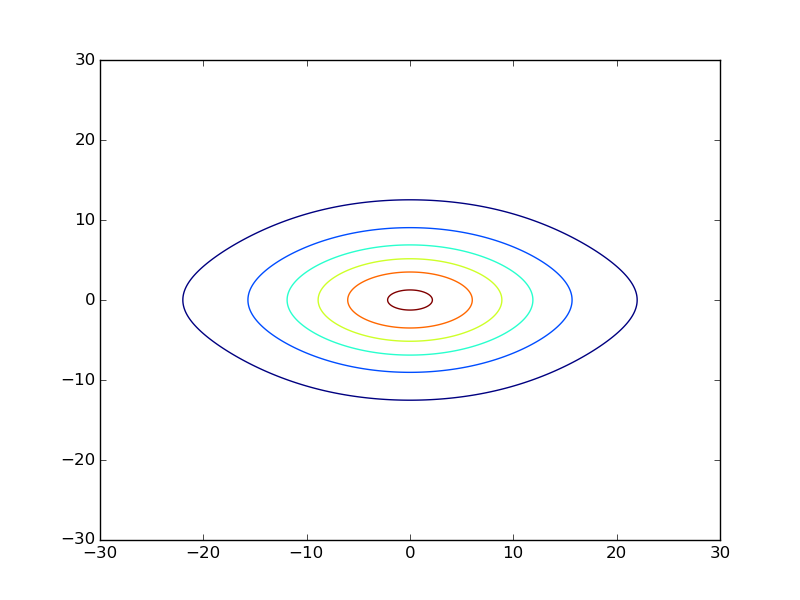
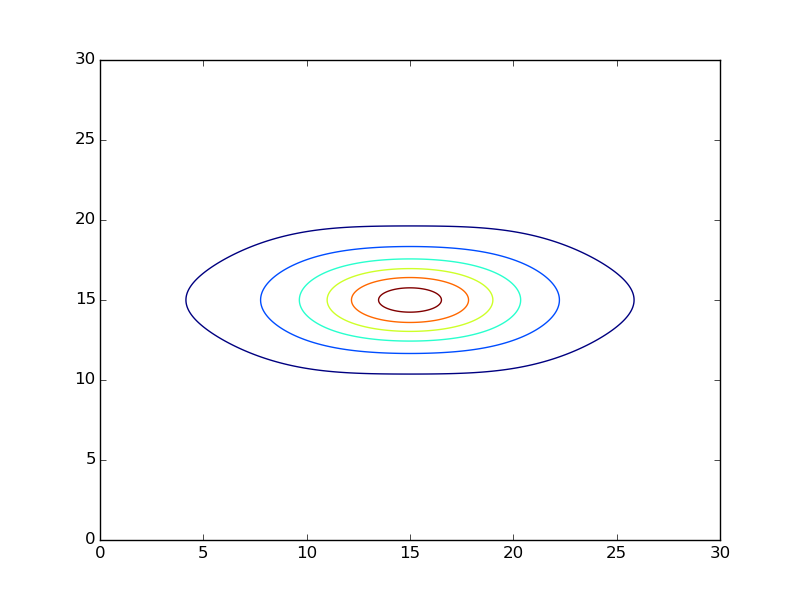
Added the force computation and plotting to the tutorial. Updated the examples accordingly

diff --git a/mnn/examples/simple_model.py b/mnn/examples/simple_model.py
@@ -21,33 +21,32 @@ plt.show()
 
 # Plotting density meshgrid
 x, y, z, v = model.generate_dataset_meshgrid((0.0, 0.0, -10.0), (30.0, 0.0, 10.0), (300, 1, 200))
-fig = plt.imshow(v[:,0].T)
+fig = plt.imshow(v[:, 0].T)
 plt.show()
 
 # Contour plot
-x = x[:,0]
-z = z[:,0]
-plt.contour(x, z, v[:,0])
+x = np.linspace(0.0, 30.0, 300)
+z = np.linspace(-10.0, 10.0, 200)
+plt.contour(x, z, v[:, 0].T)
 plt.show()
 
 # Plotting force meshgrid
+plt.close('all')
 x, y, z, f = model.generate_dataset_meshgrid((-30.0, -30.0, 0.0), (30.0, 30.0, 0.0), (30, 30, 1), 'force')
 x = x[:, :, 0].reshape(-1)
 y = y[:, :, 0].reshape(-1)
 fx = f[0, :, :, 0].reshape(-1)
 fy = f[1, :, :, 0].reshape(-1)
 
-plt.close('all')
 extent = [x.min(), x.max(), y.min(), y.max()]
 plt.figure(figsize=(10, 10))
 gs = gridspec.GridSpec(2, 2)
 ax1 = plt.subplot(gs[1, 0])
-pl1 = ax1.imshow(f[0, :, :, 0].T, extent=extent, aspect='auto')
+pl1 = ax1.imshow(f[1, :, :, 0].T, extent=extent, aspect='auto')
 ax2 = plt.subplot(gs[0, 1])
-pl2 = ax2.imshow(f[1, :, :, 0].T, extent=extent, aspect='auto')
+pl2 = ax2.imshow(f[0, :, :, 0].T, extent=extent, aspect='auto')
 ax3 = plt.subplot(gs[1, 1])
-step = 1
-pl3 = ax3.quiver(x[::step].T, y[::step].T, fx[::step].T, fy[::step].T, units='width', scale=0.045)
+pl3 = ax3.quiver(x.T, y.T, fx.T, fy.T, units='width', scale=0.045)
 plt.show()
 
     

diff --git a/mnn/examples/multiple_discs.py b/mnn/examples/multiple_discs.py
@@ -8,7 +8,7 @@ from mnn.model import MNnModel
 model = MNnModel()
 
 # Putting the discs in a list for simplicity
-discs = (('z', 10.0, 10.0, 100.0), ('y', -7.0, 20.0, 10.0))
+discs = (('z', 20.0, 10.0, 100.0), ('y', -12.0, 20.0, 10.0))
 model.add_discs(discs)
 
 # Generating the meshgrid and plotting
@@ -17,8 +17,8 @@ plt.imshow(v[0].T)
 plt.show()
 
 # Contour plot
-y = np.linspace(-30.0, 30.0, 600)
-z = np.linspace(-30.0, 30.0, 600)
+y = np.linspace(0.0, 30.0, 600)
+z = np.linspace(0.0, 30.0, 600)
 plt.contour(y, z, v[0].T)
 plt.show()
 
@@ -34,10 +34,9 @@ extent = [y.min(), y.max(), z.min(), z.max()]
 plt.figure(figsize=(10, 10))
 gs = gridspec.GridSpec(2, 2)
 ax1 = plt.subplot(gs[1, 0])
-pl1 = ax1.imshow(f[1, 0].T, extent=extent, aspect='auto')
+pl1 = ax1.imshow(f[2, 0].T, extent=extent, aspect='auto')
 ax2 = plt.subplot(gs[0, 1])
-pl2 = ax2.imshow(f[2, 0].T, extent=extent, aspect='auto')
+pl2 = ax2.imshow(f[1, 0].T, extent=extent, aspect='auto')
 ax3 = plt.subplot(gs[1, 1])
-step = 1
-pl3 = ax3.quiver(y[::step].T, z[::step].T, fy[::step].T, fz[::step].T, units='width')
+pl3 = ax3.quiver(y.T, z.T, fy.T, fz.T, units='width')
 plt.show()

diff --git a/docs/tutorial.rst b/docs/tutorial.rst
@@ -19,13 +19,16 @@ Now we can add a Miyamoto-Nagai disc to the model :
 
 >>> model.add_disc('z', 1.0, 10.0, 100.0)
 
-The model is now ready to use. We can, for instance, retrieve the density and the potential of the model at cartesian coordinates ``(1.0, 2.0, -0.5)`` :
+The model is now ready to use. We can, for instance, retrieve the density, the potential or the force of the model at cartesian coordinates ``(1.0, 2.0, -0.5)`` :
     
 >>> model.evaluate_potential(1.0, 2.0, -0.5)
 -0.038273018555213874
 
 >>> model.evaluate_density(1.0, 2.0, -0.5)
 0.016676480491325717
+
+>>> model.evaluate_force(1.0, 2.0, -0.5)
+[-0.00030309 -0.00060619  0.00016668]
 
 These methods can also be used with vectors. For instance, to evaluate the density along the x-axis, we can do :
 
@@ -40,15 +43,15 @@ You should obtain the following result :
 
 .. image:: images/tut_density1.png
   
-We can also use the :func:`~mnn.model.MNnModel.evaluate_density_vec` method of :class:`~mnn.model.MNnModel` to group the ``x``, ``y``, and ``z`` values in a single numpy array. For instance to evaluate potential over two points ``(1.0, 2.0, -0.5)`` and ``(-5.0, 0.0, 0.0)`` we can use :
+We can also use the :func:`~mnn.model.MNnModel.evaluate_density_vec` method of :class:`~mnn.model.MNnModel` (and the ocrresponding methods for potential and force) to group the ``x``, ``y``, and ``z`` values in a single numpy array. For instance to evaluate potential over two points ``(1.0, 2.0, -0.5)`` and ``(-5.0, 0.0, 0.0)`` we can use :
 
 >>> p = np.array(((2.0, 1.0, -0.5), (-5.0, 0.0, 0.0)))
 >>> model.evaluate_potential_vec(p)
 array([-0.03827302, -0.03559385])
 
-Once the model is completed, you can generate a meshgrid of data. For instance, let's generate and plot a slice of the xz plane at ``y=0``, and for x in [0, 30] and z in [-10, 10]. To do this, we need to define a mesh size. We will make cells 0.1 units wide.
+Once the model is completed, you can generate a meshgrid of data. For instance, let's generate and plot a slice of the xz plane at ``y=0``, and for x in [0, 30] and z in [-10, 10]. To do this, we need to define a mesh size. We will make 300 cells along the x axis, 1 along the y axis and 200 along the z axis.
 
->>> x, y, z, v = model.generate_dataset_meshgrid((0.0, 0.0, -10.0), (30.0, 0.0, 10.0), (0.1, 0.1, 0.1))
+>>> x, y, z, v = model.generate_dataset_meshgrid((0.0, 0.0, -10.0), (30.0, 0.0, 10.0), (300, 1, 200))
 >>> plt.imshow(v[0].T)
 >>> plt.show()
 
@@ -60,13 +63,15 @@ Should give you :
 	  This is mainly due for the tutorial briefness.
 
 .. note:: By default, the :func:`~mnn.model.MNnModel.generate_dataset_meshgrid` method generates the density.
-	  But you can ask it to generate the potential by using the keyword ``quantity='potential'``
+	  But you can ask it to generate the potential by using the keyword ``quantity='potential'`` or the force ``quantity='force'``
 		    
 	  
-Finally, we can plot contour lines at the cost of a little more effort :
+We can plot contour lines at the cost of a little more effort :
 
->>> x = np.arange(0.0, 30.1, 0.1)
->>> z = np.arange(-10.0, 10.1, 0.1)
+>>> # Selecting only the y=0 plane :
+>>> x = np.linspace(0.0, 30.0, 300)
+>>> z = np.linspace(-10.0, 10.0, 200)
+>>> # And plotting the contour :
 >>> plt.contour(x, z, v[0].T)
 >>> plt.show()
 
@@ -74,6 +79,36 @@ These commands should give the following contour plot :
 
 .. image:: images/tut_density_contour1.png
 
+And with even more effort, we can plot a quiver plot of the force applied on the xy plane and the corresponding forces along each axis :
+
+>>> # Generating the force mesh grid. The final image will be 30x30 to avoid having too many arrows on the quiver plot
+>>> x, y, z, f = model.generate_dataset_meshgrid((-30.0, -30.0, 0.0), (30.0, 30.0, 0.0), (30, 30, 1), 'force')
+>>> 
+>>> # Selecting the z=0 plane and flattening the array
+>>> x = x[:, :, 0].reshape(-1)
+>>> y = y[:, :, 0].reshape(-1)
+>>> 
+>>> # Same thing but keeping the x and y components of the force
+>>> fx = f[0, :, :, 0].reshape(-1)
+>>> fy = f[1, :, :, 0].reshape(-1)
+>>> 
+>>> # Drawing the plot
+>>> extent = [x.min(), x.max(), y.min(), y.max()]
+>>> plt.figure(figsize=(10, 10))
+>>> gs = gridspec.GridSpec(2, 2)
+>>> ax1 = plt.subplot(gs[1, 0])
+>>> pl1 = ax1.imshow(f[1, :, :, 0].T, extent=extent, aspect='auto')
+>>> ax2 = plt.subplot(gs[0, 1])
+>>> pl2 = ax2.imshow(f[0, :, :, 0].T, extent=extent, aspect='auto')
+>>> ax3 = plt.subplot(gs[1, 1])
+>>> pl3 = ax3.quiver(x.T, y.T, fx.T, fy.T, units='width', scale=0.045)
+>>> plt.show()
+
+The plot displayed should look like :
+
+.. image:: images/tut_force1.png
+
+The quiver plot represents the x and y components of the force on the xy plane. The left plot shows only the y component of the force while the top plot shows the x component of the force. 
 
 Multiple discs and negative scales
 ----------------------------------
@@ -81,14 +116,14 @@ Multiple discs and negative scales
 The strength of ``MNn`` is to provide a model that sums multiple Miyamoto-Nagai discs, and that some of these models can have a negative disc scale (``a``). Let's create such a model with two discs. for this we can use the previous method :func:`~mnn.model.MNnModel.add_disc` or use a the wrapper :func:`~mnn.model.MNnModel.add_discs`. This wrapper takes a list of discs as we would create them with :func:`~mnn.model.MNnModel.add_disc`.
 
 >>> model = MNnModel()
->>> discs = (('z', 10.0, 10.0, 100.0), ('y', -7.0, 20.0, 10.0))
+>>> discs = (('z', 20.0, 10.0, 100.0), ('y', -12.0, 20.0, 10.0))
 >>> model.add_discs(discs)
 
 .. note:: The discs can have ``a<0`` as long as ``a+b>=0``. The other constraints on the model are : ``b>=0`` and ``M>=0``.
 
 This new model can be used as previously, for instance plotting the density on the ``x=0`` plane :
 
->>> x, y, z, v = model.generate_dataset_meshgrid((0.0, -20.0, -20.0), (0.0, 20.0, 20.0), (0.1, 0.1, 0.1))
+>>> x, y, z, v = model.generate_dataset_meshgrid((0.0, -20.0, -20.0), (0.0, 30.0, 30.0), (1, 600, 600))
 >>> plt.imshow(v[:, 0].T)
 >>> plt.show()
 
@@ -98,8 +133,9 @@ Will give you :
 
 And :
 
->>> y = np.arange(-30.0, 30.1, 0.1)
->>> z = np.arange(-30.0, 30.1, 0.1)
+>>> # Selecting the x=0 plane and flattening
+>>> y = np.linspace(0.0, 30.0, 600)
+>>> z = np.linspace(0.0, 30.0, 600)
 >>> plt.contour(y, z, v[:, 0].T)
 >>> plt.show()
 
@@ -107,6 +143,28 @@ Will yield :
 
 .. image:: images/tut_density_contour2.png
 
+Finally, doing the same as before and plotting the force on yz plane :
+
+>>> x, y, z, f = model.generate_dataset_meshgrid((0.0, -30.0, -30.0), (0.0, 30.0, 30.0), (1, 30, 30), 'force')
+>>> y = y[0].reshape(-1)
+>>> z = z[0].reshape(-1)
+>>> fy = f[1, 0].reshape(-1)
+>>> fz = f[2, 0].reshape(-1)
+>>> 
+>>> extent = [y.min(), y.max(), z.min(), z.max()]
+>>> plt.figure(figsize=(10, 10))
+>>> gs = gridspec.GridSpec(2, 2)
+>>> ax1 = plt.subplot(gs[1, 0])
+>>> pl1 = ax1.imshow(f[2, 0].T, extent=extent, aspect='auto')
+>>> ax2 = plt.subplot(gs[0, 1])
+>>> pl2 = ax2.imshow(f[1, 0].T, extent=extent, aspect='auto')
+>>> ax3 = plt.subplot(gs[1, 1])
+>>> pl3 = ax3.quiver(y.T, z.T, fy.T, fz.T, units='width')
+>>> plt.show()	   
+
+Will give the following plot :
+
+.. image:: images/tut_force2.png
 
 Fitting Data
 ------------
